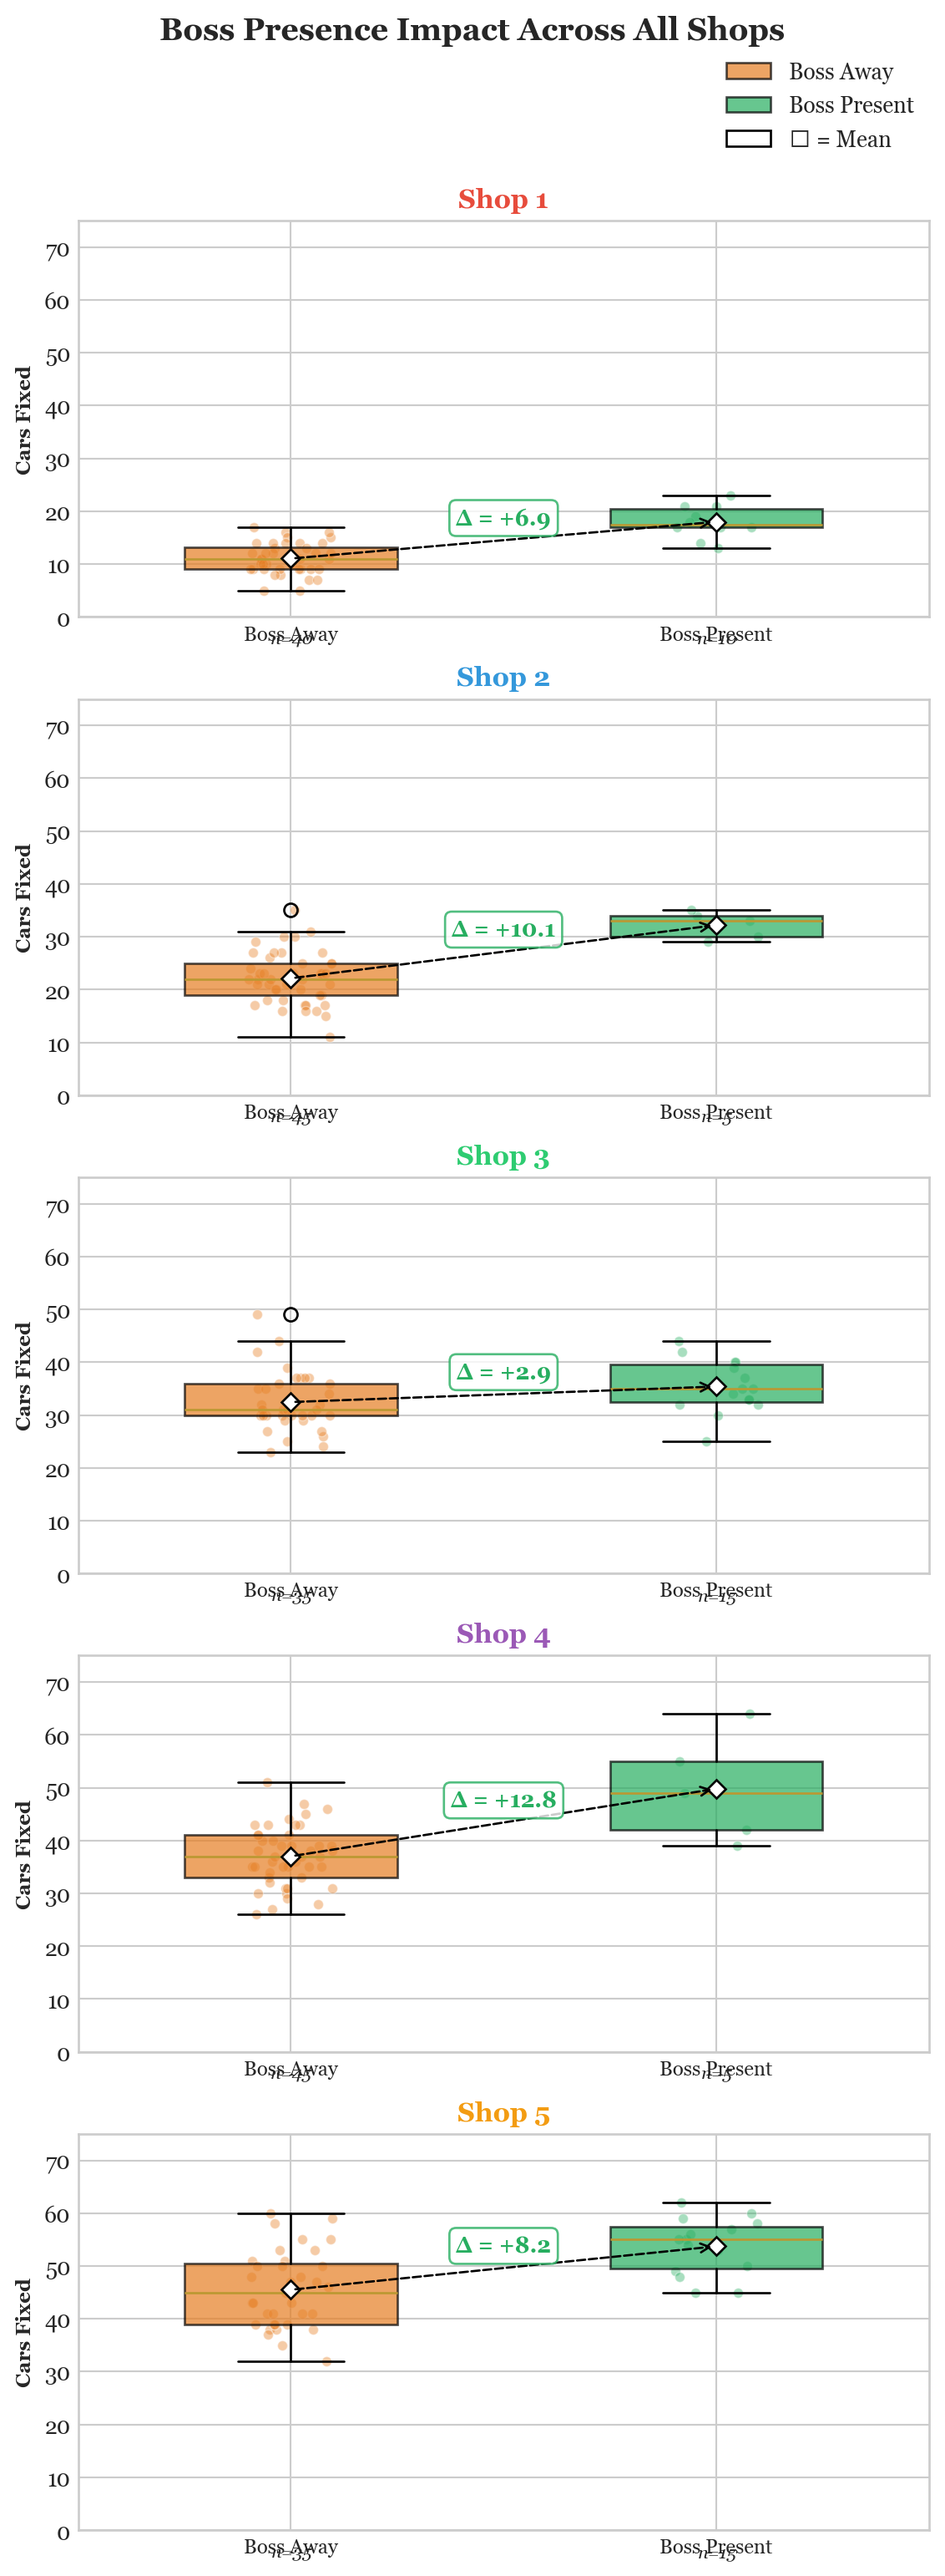
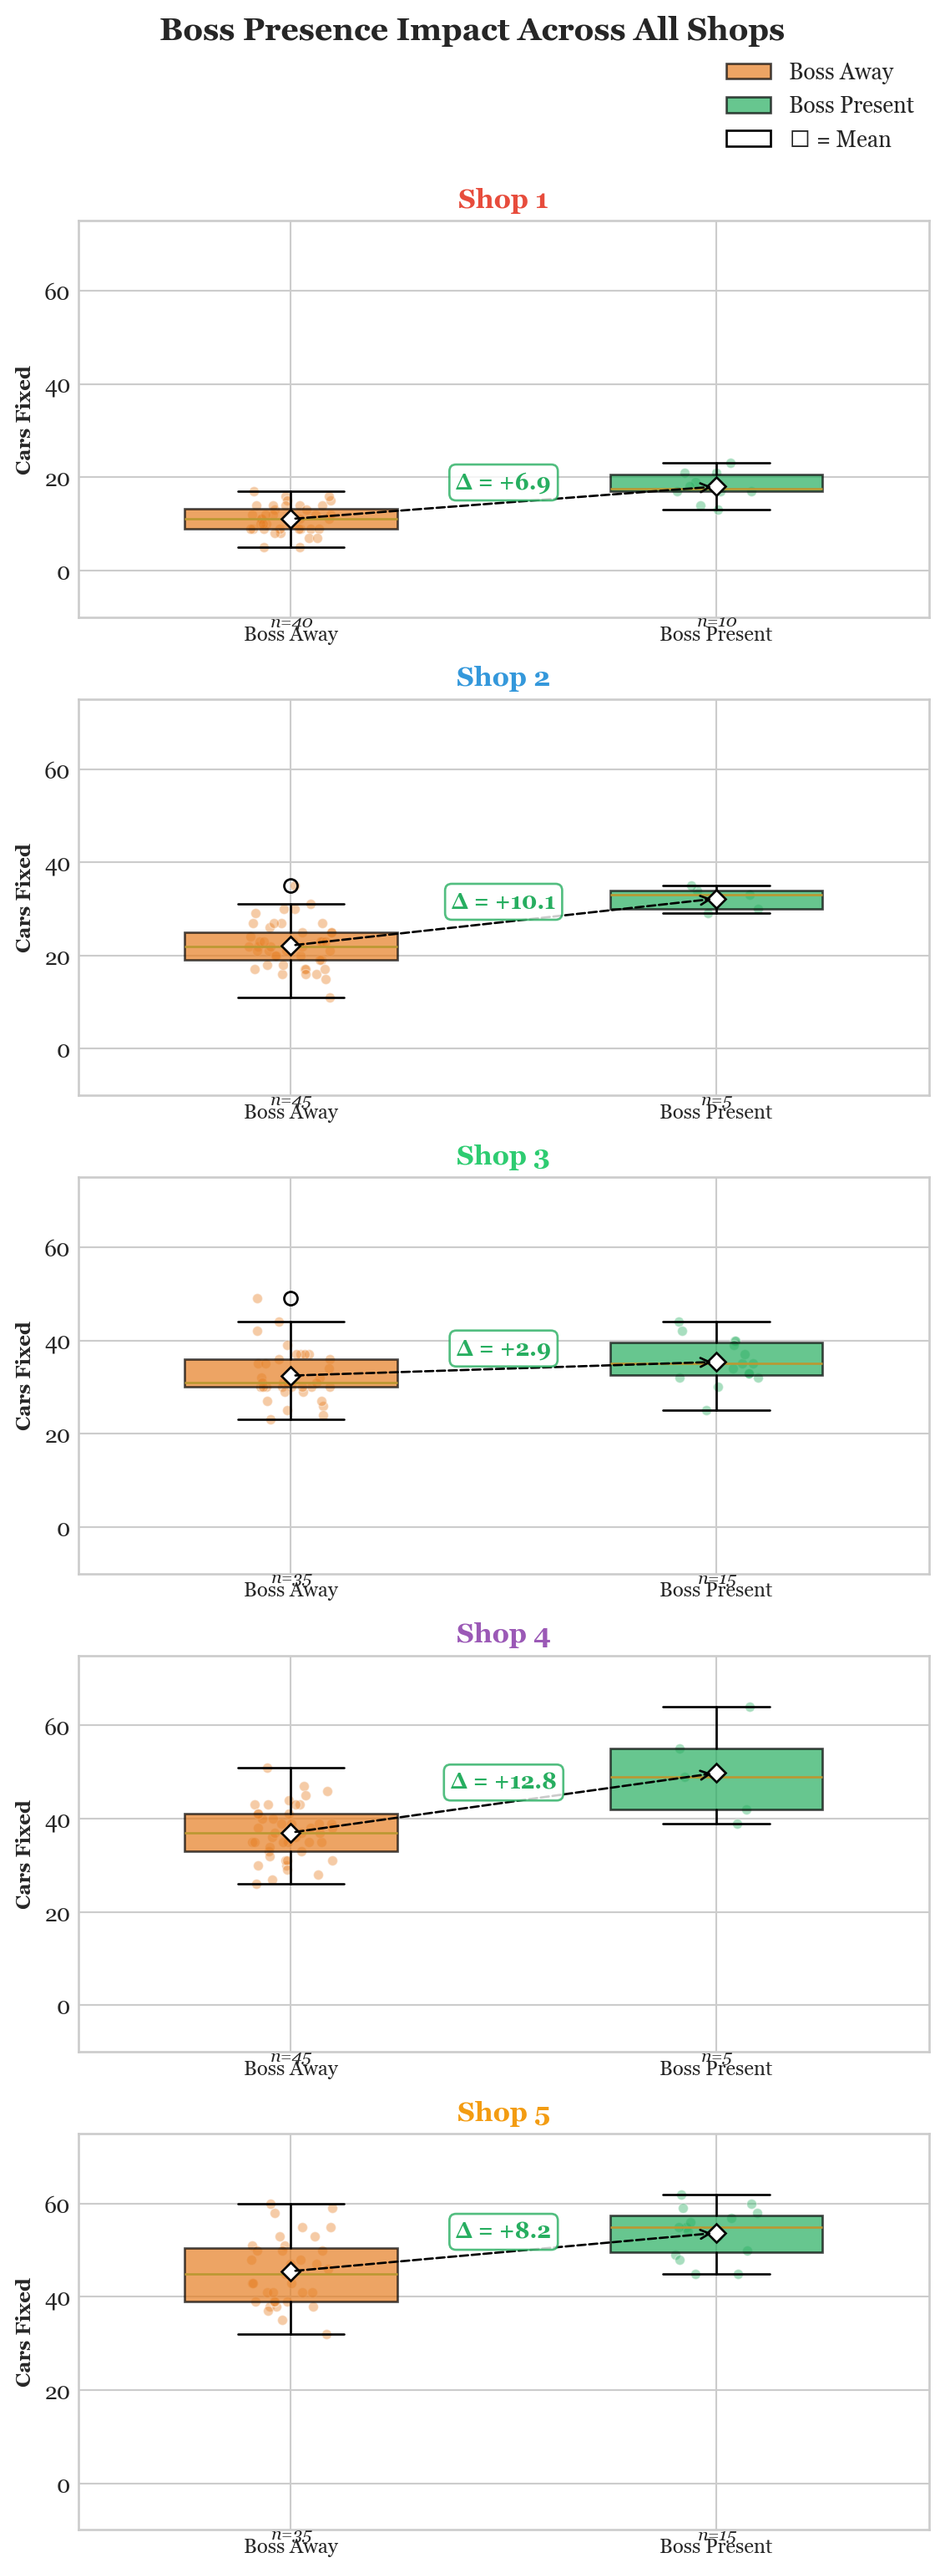
retrying manually w/o help

diff --git a/index.html b/index.html
@@ -7,7 +7,7 @@
 <meta name="viewport" content="width=device-width, initial-scale=1.0, user-scalable=yes">
 
 <meta name="author" content="Abbonizio Business Analytics Consulting LLC">
-<meta name="dcterms.date" content="2025-12-04">
+<meta name="dcterms.date" content="2025-12-07">
 
 <title>Patrick’s Auto Shop Productivity Report</title>
 <style>
@@ -84,7 +84,7 @@ ul.task-list li input[type="checkbox"] {
     <div>
     <div class="quarto-title-meta-heading">Published</div>
     <div class="quarto-title-meta-contents">
-      <p class="date">December 4, 2025</p>
+      <p class="date">December 7, 2025</p>
     </div>
   </div>
   
@@ -105,7 +105,7 @@ ul.task-list li input[type="checkbox"] {
 <section id="what-the-data-shows" class="level2">
 <h2 class="anchored" data-anchor-id="what-the-data-shows">What the Data Shows</h2>
 <p>We analyzed 250 days of productivity data across your 5 shops. Here’s every single day plotted—you can see the pattern clearly:</p>
-<div id="7d066975" class="cell" data-fig-height="10" data-fig-width="11" data-execution_count="2">
+<div id="83e17bb9" class="cell" data-fig-height="10" data-fig-width="11" data-execution_count="2">
 <div class="cell-output cell-output-display">
 <div class="quarto-figure quarto-figure-center">
 <figure class="figure">
@@ -121,7 +121,7 @@ ul.task-list li input[type="checkbox"] {
 <section id="distribution-comparison-violin-plot" class="level2">
 <h2 class="anchored" data-anchor-id="distribution-comparison-violin-plot">Distribution Comparison: Violin Plot</h2>
 <p>This violin plot reveals the full shape of productivity distributions—not just averages, but how spread out and consistent each shop performs:</p>
-<div id="e3dc05b3" class="cell" data-fig-height="6" data-fig-width="8" data-execution_count="3">
+<div id="fe7b8bf0" class="cell" data-fig-height="6" data-fig-width="8" data-execution_count="3">
 <div class="cell-output cell-output-display">
 <div class="quarto-figure quarto-figure-center">
 <figure class="figure">
@@ -137,7 +137,7 @@ ul.task-list li input[type="checkbox"] {
 <section id="split-violin-plot-direct-comparison-by-shop" class="level2">
 <h2 class="anchored" data-anchor-id="split-violin-plot-direct-comparison-by-shop">Split Violin Plot: Direct Comparison by Shop</h2>
 <p>This split violin plot shows the productivity distribution for each shop with boss presence on opposite sides—making it easy to compare the “shape” of performance directly:</p>
-<div id="f265994a" class="cell" data-fig-height="8" data-fig-width="8" data-execution_count="4">
+<div id="87dd825d" class="cell" data-fig-height="8" data-fig-width="8" data-execution_count="4">
 <div class="cell-output cell-output-display">
 <div class="quarto-figure quarto-figure-center">
 <figure class="figure">
@@ -153,7 +153,7 @@ ul.task-list li input[type="checkbox"] {
 <section id="d-view-shop-performance-landscape" class="level2">
 <h2 class="anchored" data-anchor-id="d-view-shop-performance-landscape">3D View: Shop Performance Landscape</h2>
 <p>Here’s an interactive 3D perspective showing all three dimensions at once—Shop ID, your presence status, and cars fixed:</p>
-<div id="b3166f5c" class="cell" data-fig-height="8" data-fig-width="10" data-execution_count="5">
+<div id="51bbcd21" class="cell" data-fig-height="8" data-fig-width="10" data-execution_count="5">
 <div class="cell-output cell-output-display">
 <div class="quarto-figure quarto-figure-center">
 <figure class="figure">
@@ -169,7 +169,7 @@ ul.task-list li input[type="checkbox"] {
 <section id="the-boss-boost-effect" class="level2">
 <h2 class="anchored" data-anchor-id="the-boss-boost-effect">The “Boss Boost” Effect</h2>
 <p>Here’s the real question: <strong>How many extra cars get fixed when you’re at each shop?</strong></p>
-<div id="8c44ff72" class="cell" data-fig-height="5" data-fig-width="7" data-execution_count="6">
+<div id="18820622" class="cell" data-fig-height="5" data-fig-width="7" data-execution_count="6">
 <div class="cell-output cell-output-display">
 <div class="quarto-figure quarto-figure-center">
 <figure class="figure">
@@ -226,7 +226,7 @@ ul.task-list li input[type="checkbox"] {
 <section id="how-confident-can-you-be" class="level2">
 <h2 class="anchored" data-anchor-id="how-confident-can-you-be">How Confident Can You Be?</h2>
 <p><strong>The honest truth:</strong> We only have 250 days of data, and you weren’t at every shop equally. Here’s what that means:</p>
-<div id="a92d3503" class="cell" data-fig-height="6" data-fig-width="6" data-execution_count="7">
+<div id="7e1f2bb1" class="cell" data-fig-height="6" data-fig-width="6" data-execution_count="7">
 <div class="cell-output cell-output-display">
 <div class="quarto-figure quarto-figure-center">
 <figure class="figure">
@@ -253,7 +253,7 @@ ul.task-list li input[type="checkbox"] {
 <section id="the-money-question" class="level2">
 <h2 class="anchored" data-anchor-id="the-money-question">The Money Question 💰</h2>
 <p>Let’s say each car fixed earns you <strong>$200 in profit</strong>. Here’s what different scheduling strategies could mean for your wallet:</p>
-<div id="474fe33d" class="cell" data-fig-height="7" data-fig-width="7" data-execution_count="8">
+<div id="a4139d43" class="cell" data-fig-height="7" data-fig-width="7" data-execution_count="8">
 <div class="cell-output cell-output-display">
 <div class="quarto-figure quarto-figure-center">
 <figure class="figure">
@@ -266,7 +266,7 @@ ul.task-list li input[type="checkbox"] {
 <section id="long-term-profit-projection" class="level3">
 <h3 class="anchored" data-anchor-id="long-term-profit-projection">Long-Term Profit Projection 📈</h3>
 <p>What do these strategies look like over a full year? Here’s how your profits compound:</p>
-<div id="ebc904ac" class="cell" data-fig-height="5" data-fig-width="7" data-execution_count="9">
+<div id="e819c307" class="cell" data-fig-height="5" data-fig-width="7" data-execution_count="9">
 <div class="cell-output cell-output-display">
 <div class="quarto-figure quarto-figure-center">
 <figure class="figure">
@@ -390,11 +390,11 @@ ul.task-list li input[type="checkbox"] {
 </section>
 <section id="one-final-chart-boss-presence-delta-by-shop" class="level3">
 <h3 class="anchored" data-anchor-id="one-final-chart-boss-presence-delta-by-shop">One Final Chart: Boss Presence Delta by Shop</h3>
-<div id="4ccd0b4a" class="cell" data-fig-height="16" data-fig-width="6" data-execution_count="10">
+<div id="f66d0c5e" class="cell" data-fig-height="16" data-fig-width="6" data-execution_count="10">
 <div class="cell-output cell-output-display">
 <div class="quarto-figure quarto-figure-center">
 <figure class="figure">
-<p><img src="index_files/figure-html/cell-11-output-1.png" width="566" height="1542" class="figure-img"></p>
+<p><img src="index_files/figure-html/cell-11-output-1.png" width="566" height="1540" class="figure-img"></p>
 <figcaption>All shops: Productivity split by boss presence</figcaption>
 </figure>
 </div>
